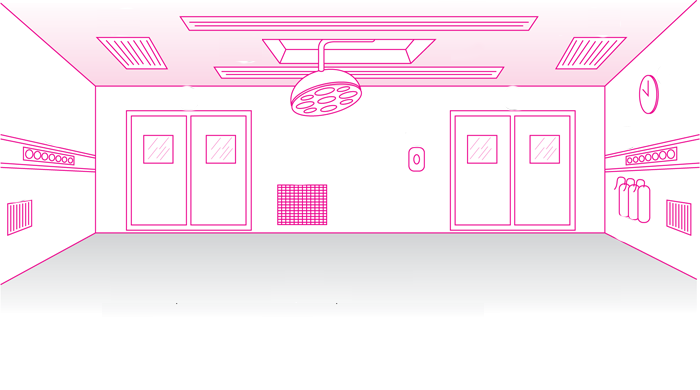
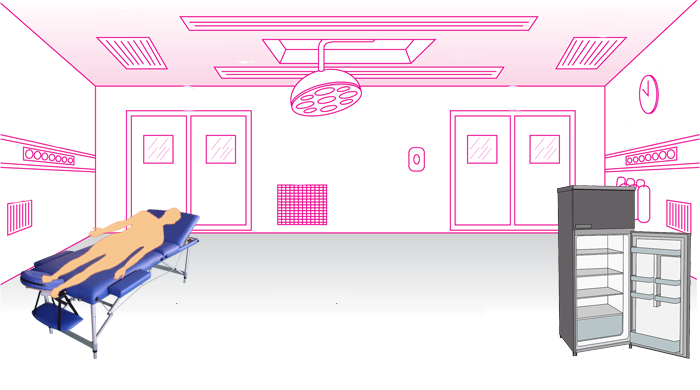
BAckground actualizado, organos colocados en su posicion

Changed region(s): [[0.78, 0.4615, 0.99, 0.9231], [0.03, 0.5231, 0.3, 0.9231]]

diff --git a/game.js b/game.js
@@ -17,9 +17,9 @@ var Game = {
       x: 800,
       y: 400,
       width: 200,
-      height: 200,
-      fillStyle: "#000"
+      height: 200
     };
+    this.selection = {};
 
     this.inilicializar();
     this.drawAll();
@@ -36,7 +36,7 @@ var Game = {
     data.forEach(
       function(organo) {
         this.organosArray.push(
-          new Organo(this, organo.name, organo.y, organo.src)
+          new Organo(this, organo.name, organo.x, organo.y, organo.src)
         );
       }.bind(this)
     );
@@ -100,9 +100,11 @@ var Game = {
         // Si es así, se establece dragok y isDragging en true
         this.dragok = true;
         r.isDragging = true;
+        this.selection = r;
       }
     }
     // Guardamos la posición actual
+    console.log(this.selection);
     this.startX = mx;
     this.startY = my;
   },
@@ -123,7 +125,9 @@ var Game = {
     for (var i = 0; i < this.organosArray.length; i++) {
       this.organosArray[i].isDragging = false;
     }
-    this.check();
+    console.log(e);
+    this.check(this.selection);
+    console.log(this.selection);
   },
   // manejar eventos cuando movemos el ratón
 
@@ -166,15 +170,16 @@ var Game = {
       this.startY = my;
     }
   },
-  check: function() {
+  check: function(arg) {
     console.log(this.currentValueX + " LLEGA " + this.fridge.x);
+    console.log(this.selection.name);
     if (
       this.currentValueX > this.fridge.x &&
       this.currentValueX + 30 < this.fridge.x + this.fridge.width &&
       this.currentValueY > this.fridge.y &&
       this.currentValueY + 30 < this.fridge.y + this.fridge.height
     ) {
-      console.log("Está en la nevera");
+      console.log("Está en la nevera " + this.selection.name);
     } else {
       console.log("no está en la nevera");
     }

diff --git a/data.js b/data.js
@@ -1,8 +1,8 @@
 var data = [
   {
     name: "brain",
-    x: 250 - 15,
-    y: 300 - 15,
+    x: 300 - 15,
+    y: 320 - 15,
     width: 30,
     height: 30,
     src: "images/brain.png",
@@ -10,8 +10,8 @@ var data = [
   },
   {
     name: "heart",
-    x: 250 - 15,
-    y: 350 - 15,
+    x: 270 - 15,
+    y: 360 - 15,
     width: 30,
     height: 30,
     src: "images/heart.png",
@@ -19,8 +19,8 @@ var data = [
   },
   {
     name: "lungs",
-    x: 250 - 15,
-    y: 400 - 15,
+    x: 240 - 15,
+    y: 355 - 15,
     width: 30,
     height: 30,
     src: "images/lungs.png",
@@ -28,8 +28,8 @@ var data = [
   },
   {
     name: "liver",
-    x: 250 - 15,
-    y: 450 - 15,
+    x: 220 - 15,
+    y: 385 - 15,
     width: 30,
     height: 30,
     src: "images/liver.png",
@@ -37,8 +37,8 @@ var data = [
   },
   {
     name: "bone",
-    x: 250 - 15,
-    y: 500 - 15,
+    x: 160 - 15,
+    y: 410 - 15,
     width: 30,
     height: 30,
     src: "images/bone.png",

diff --git a/organos.js b/organos.js
@@ -1,9 +1,9 @@
-function Organo(game, name, y, src) {
+function Organo(game, name, x, y, src) {
   (this.game = game),
     (this.name = name),
+    (this.x = x),
     (this.y = y),
     (this.src = src),
-    (this.x = 200),
     (this.WIDTH = 30),
     (this.HEIGHT = 30);
 }
